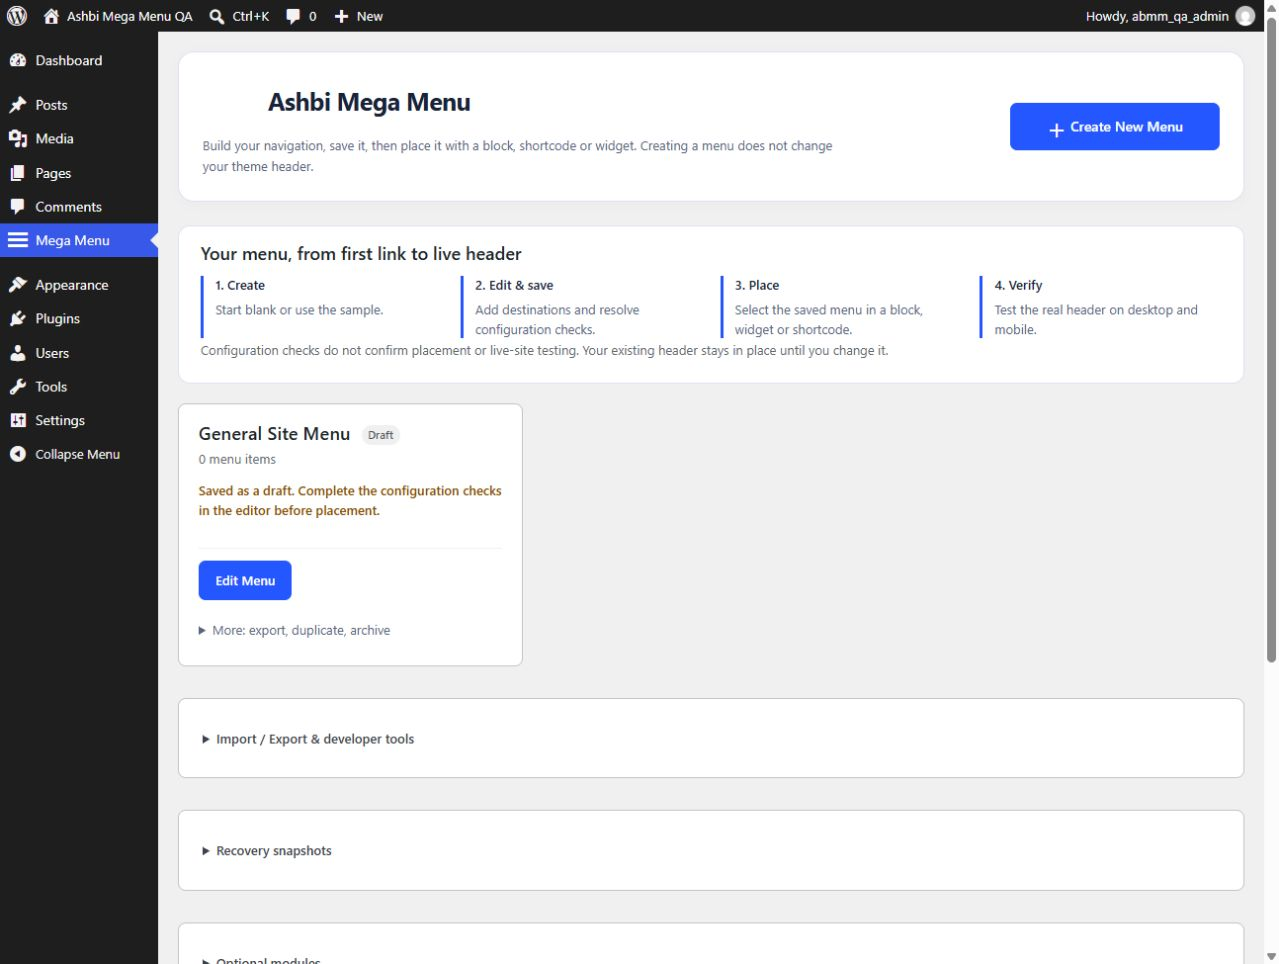
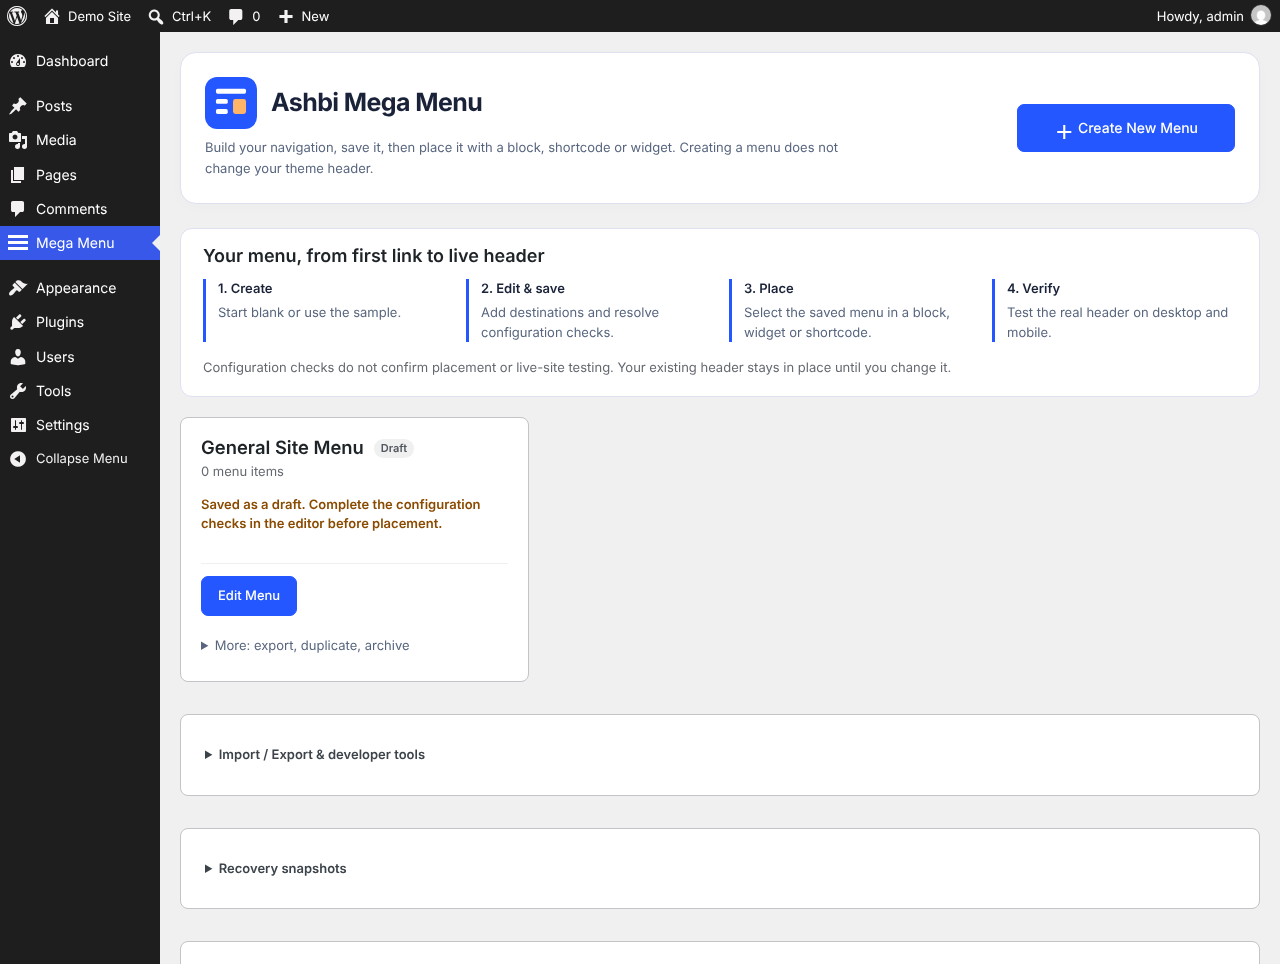
Fix issues found in the WordPress.org readiness review (#14)
- Mobile drawer: open from the top when the menu bar sits low on the
  screen (footer or sidebar widget), instead of off-screen.
- Theme compatibility: themes that style every button (Twenty
  Twenty-One) no longer repaint menu section buttons or the drawer's
  Back and Close buttons. Narrow placements on wide screens now get the
  phone drawer's header layout.
- Block and widget menu lists show the menu ID when names repeat.
- Uninstall also removes the widget's saved settings.
- Retake directory screenshots 1 and 2 from the current plugin.

Adds tests/mobile-drawer-offset.test.js and extends the uninstall
tests; both fail on the previous code.

Claude-Session: https://claude.ai/code/session_01DZ9c9o2cjYuK1oEKvfNMax

diff --git a/build/blocks/mega-menu/index.js b/build/blocks/mega-menu/index.js
@@ -1,1 +1,1 @@
-(()=>{"use strict";const e={n:n=>{const a=n&&n.__esModule?()=>n.default:()=>n;return e.d(a,{a}),a},d:(n,a)=>{for(var s in a)e.o(a,s)&&!e.o(n,s)&&Object.defineProperty(n,s,{enumerable:!0,get:a[s]})},o:(e,n)=>Object.hasOwn(e,n)},n=window.wp.blocks,a=JSON.parse('{"UU":"ashbi-mega-menu/mega-menu"}'),s=window.wp.i18n,i=window.wp.blockEditor,l=window.wp.components,r=window.wp.serverSideRender;var o=e.n(r);const t=window.ReactJSXRuntime,m=(0,t.jsxs)(l.SVG,{width:"24",height:"24",viewBox:"0 0 24 24",xmlns:"http://www.w3.org/2000/svg",children:[(0,t.jsx)(l.Path,{fill:"#2457ff",d:"M6 1h12a5 5 0 0 1 5 5v12a5 5 0 0 1-5 5H6a5 5 0 0 1-5-5V6a5 5 0 0 1 5-5z"}),(0,t.jsx)(l.Path,{fill:"#fff",d:"M6 6h12v2H6zM6 11h5v2H6zM6 16h5v2H6z"}),(0,t.jsx)(l.Path,{fill:"#ffb568",d:"M14 11h4v7h-4z"})]});(0,n.registerBlockType)(a.UU,{icon:m,edit:function({attributes:e,setAttributes:n}){const{menuId:a}=e,r=(0,i.useBlockProps)({className:"wp-block-ashbi-mega-menu-mega-menu"}),c=window.abmmBlockData,h=c?.menus||{},u="ready"===c?.status,d=Object.keys(h).length>0,b=Boolean(a&&u&&!h[a]),g=[{value:"",label:(0,s.__)("— Select a menu —","ashbi-mega-menu")},...Object.entries(h).map(([e,n])=>({value:e,label:n.title||e}))];return(0,t.jsxs)("div",{...r,children:[(0,t.jsx)(i.InspectorControls,{children:(0,t.jsx)(l.PanelBody,{title:(0,s.__)("Menu Settings","ashbi-mega-menu"),children:d&&(0,t.jsx)(l.SelectControl,{label:(0,s.__)("Select Menu","ashbi-mega-menu"),value:a,options:g,onChange:e=>n({menuId:e})})})}),!u&&(0,t.jsxs)(l.Placeholder,{icon:m,label:(0,s.__)("Ashbi Mega Menu","ashbi-mega-menu"),children:[(0,t.jsx)(l.Spinner,{}),(0,t.jsx)("p",{children:(0,s.__)("Loading available menus…","ashbi-mega-menu")})]}),u&&!d&&(0,t.jsx)(l.Placeholder,{icon:m,label:(0,s.__)("Ashbi Mega Menu","ashbi-mega-menu"),instructions:c?.canManage?(0,s.__)("Create a menu first, then return to select it here.","ashbi-mega-menu"):(0,s.__)("No menus are available. Ask a site administrator to create one.","ashbi-mega-menu"),children:c?.canManage&&(0,t.jsx)(l.Button,{variant:"primary",href:c.manageUrl,children:(0,s.__)("Create or manage menus","ashbi-mega-menu")})}),u&&d&&!a&&(0,t.jsx)(l.Placeholder,{icon:m,label:(0,s.__)("Ashbi Mega Menu","ashbi-mega-menu"),instructions:(0,s.__)("Select a mega menu to display.","ashbi-mega-menu"),children:(0,t.jsx)(l.SelectControl,{value:a,options:g,onChange:e=>n({menuId:e})})}),b&&(0,t.jsxs)(l.Notice,{status:"warning",isDismissible:!1,children:[(0,t.jsx)("p",{children:(0,s.__)("The selected menu no longer exists. Choose a replacement.","ashbi-mega-menu")}),(0,t.jsx)(l.SelectControl,{value:"",options:g,onChange:e=>n({menuId:e})})]}),a&&!b&&(0,t.jsx)(o(),{block:"ashbi-mega-menu/mega-menu",attributes:e,LoadingResponsePlaceholder:()=>(0,t.jsxs)("div",{className:"abmm-block-preview-placeholder",children:[(0,t.jsx)(l.Spinner,{}),(0,t.jsx)("p",{children:(0,s.__)("Loading preview…","ashbi-mega-menu")})]}),ErrorResponsePlaceholder:({response:e})=>(0,t.jsx)("div",{className:"abmm-block-preview-placeholder",children:(0,t.jsxs)("p",{children:[(0,s.__)("Preview error: ","ashbi-mega-menu"),e?.errorMsg||(0,s.__)("Unknown error","ashbi-mega-menu")]})})})]})},save:()=>null})})();
+(()=>{"use strict";const e={n:n=>{const a=n&&n.__esModule?()=>n.default:()=>n;return e.d(a,{a}),a},d:(n,a)=>{for(var s in a)e.o(a,s)&&!e.o(n,s)&&Object.defineProperty(n,s,{enumerable:!0,get:a[s]})},o:(e,n)=>Object.hasOwn(e,n)},n=window.wp.blocks,a=JSON.parse('{"UU":"ashbi-mega-menu/mega-menu"}'),s=window.wp.i18n,i=window.wp.blockEditor,t=window.wp.components,l=window.wp.serverSideRender;var r=e.n(l);const o=window.ReactJSXRuntime,m=(0,o.jsxs)(t.SVG,{width:"24",height:"24",viewBox:"0 0 24 24",xmlns:"http://www.w3.org/2000/svg",children:[(0,o.jsx)(t.Path,{fill:"#2457ff",d:"M6 1h12a5 5 0 0 1 5 5v12a5 5 0 0 1-5 5H6a5 5 0 0 1-5-5V6a5 5 0 0 1 5-5z"}),(0,o.jsx)(t.Path,{fill:"#fff",d:"M6 6h12v2H6zM6 11h5v2H6zM6 16h5v2H6z"}),(0,o.jsx)(t.Path,{fill:"#ffb568",d:"M14 11h4v7h-4z"})]});(0,n.registerBlockType)(a.UU,{icon:m,edit:function({attributes:e,setAttributes:n}){const{menuId:a}=e,l=(0,i.useBlockProps)({className:"wp-block-ashbi-mega-menu-mega-menu"}),c=window.abmmBlockData,h=c?.menus||{},u="ready"===c?.status,d=Object.keys(h).length>0,b=Boolean(a&&u&&!h[a]),g=Object.values(h).reduce((e,n)=>{const a=n.title||"";return e[a]=(e[a]||0)+1,e},{}),p=[{value:"",label:(0,s.__)("— Select a menu —","ashbi-mega-menu")},...Object.entries(h).map(([e,n])=>({value:e,label:n.title?g[n.title]>1?`${n.title} (${e})`:n.title:e}))];return(0,o.jsxs)("div",{...l,children:[(0,o.jsx)(i.InspectorControls,{children:(0,o.jsx)(t.PanelBody,{title:(0,s.__)("Menu Settings","ashbi-mega-menu"),children:d&&(0,o.jsx)(t.SelectControl,{label:(0,s.__)("Select Menu","ashbi-mega-menu"),value:a,options:p,onChange:e=>n({menuId:e})})})}),!u&&(0,o.jsxs)(t.Placeholder,{icon:m,label:(0,s.__)("Ashbi Mega Menu","ashbi-mega-menu"),children:[(0,o.jsx)(t.Spinner,{}),(0,o.jsx)("p",{children:(0,s.__)("Loading available menus…","ashbi-mega-menu")})]}),u&&!d&&(0,o.jsx)(t.Placeholder,{icon:m,label:(0,s.__)("Ashbi Mega Menu","ashbi-mega-menu"),instructions:c?.canManage?(0,s.__)("Create a menu first, then return to select it here.","ashbi-mega-menu"):(0,s.__)("No menus are available. Ask a site administrator to create one.","ashbi-mega-menu"),children:c?.canManage&&(0,o.jsx)(t.Button,{variant:"primary",href:c.manageUrl,children:(0,s.__)("Create or manage menus","ashbi-mega-menu")})}),u&&d&&!a&&(0,o.jsx)(t.Placeholder,{icon:m,label:(0,s.__)("Ashbi Mega Menu","ashbi-mega-menu"),instructions:(0,s.__)("Select a mega menu to display.","ashbi-mega-menu"),children:(0,o.jsx)(t.SelectControl,{value:a,options:p,onChange:e=>n({menuId:e})})}),b&&(0,o.jsxs)(t.Notice,{status:"warning",isDismissible:!1,children:[(0,o.jsx)("p",{children:(0,s.__)("The selected menu no longer exists. Choose a replacement.","ashbi-mega-menu")}),(0,o.jsx)(t.SelectControl,{value:"",options:p,onChange:e=>n({menuId:e})})]}),a&&!b&&(0,o.jsx)(r(),{block:"ashbi-mega-menu/mega-menu",attributes:e,LoadingResponsePlaceholder:()=>(0,o.jsxs)("div",{className:"abmm-block-preview-placeholder",children:[(0,o.jsx)(t.Spinner,{}),(0,o.jsx)("p",{children:(0,s.__)("Loading preview…","ashbi-mega-menu")})]}),ErrorResponsePlaceholder:({response:e})=>(0,o.jsx)("div",{className:"abmm-block-preview-placeholder",children:(0,o.jsxs)("p",{children:[(0,s.__)("Preview error: ","ashbi-mega-menu"),e?.errorMsg||(0,s.__)("Unknown error","ashbi-mega-menu")]})})})]})},save:()=>null})})();

diff --git a/assets/css/frontend.css b/assets/css/frontend.css
@@ -827,7 +827,7 @@ a.abmm-product-nav__identity:focus {
 	margin: 0;
 	padding: 0.65rem 0.75rem;
 	text-align: left;
-	background: transparent;
+	background: transparent !important;
 	border: 0;
 	border-bottom: 1px solid var(--abmm-border);
 	border-radius: 0;
@@ -884,8 +884,8 @@ a.abmm-product-nav__identity:focus {
 }
 .abmm-header .abmm-mega__cat:hover,
 .abmm-header .abmm-mega__cat:focus {
-	background: rgba(26, 115, 232, 0.06);
-	background: color-mix(in srgb, var(--abmm-accent) 6%, var(--abmm-sidebar-bg));
+	background: rgba(26, 115, 232, 0.06) !important;
+	background: color-mix(in srgb, var(--abmm-accent) 6%, var(--abmm-sidebar-bg)) !important;
 	box-shadow: none;
 	color: var(--abmm-text) !important;
 }
@@ -893,8 +893,8 @@ a.abmm-product-nav__identity:focus {
 .abmm-header .abmm-mega__cat.is-active,
 .abmm-header .abmm-mega__cat.is-active:hover,
 .abmm-header .abmm-mega__cat.is-active:focus {
-	background: rgba(26, 115, 232, 0.1);
-	background: color-mix(in srgb, var(--abmm-accent) 10%, var(--abmm-sidebar-bg));
+	background: rgba(26, 115, 232, 0.1) !important;
+	background: color-mix(in srgb, var(--abmm-accent) 10%, var(--abmm-sidebar-bg)) !important;
 	box-shadow: inset 3px 0 0 var(--abmm-accent);
 	color: var(--abmm-text) !important;
 	z-index: 1;
@@ -1915,7 +1915,7 @@ html.abmm-drawer-open {
 		border: none;
 		border-bottom: 1px solid var(--abmm-border);
 		border-radius: 0;
-		background: transparent;
+		background: transparent !important;
 		min-height: 56px;
 		grid-column: auto;
 		box-shadow: none;
@@ -1928,7 +1928,7 @@ html.abmm-drawer-open {
 
 	.abmm-mega__cat:hover,
 	.abmm-mega__cat.is-active {
-		background: rgba(0, 0, 0, 0.02);
+		background: rgba(0, 0, 0, 0.02) !important;
 		border-color: var(--abmm-border);
 		box-shadow: none;
 		border-radius: 0;
@@ -2269,7 +2269,7 @@ html.abmm-drawer-open {
 		border: none;
 		border-bottom: 1px solid var(--abmm-border);
 		border-radius: 0;
-		background: transparent;
+		background: transparent !important;
 		min-height: 56px;
 		box-shadow: none;
 	}
@@ -2419,4 +2419,104 @@ html.abmm-drawer-open {
 .abmm-header.abmm-mobile-enhanced.abmm-force-mobile :is(.abmm-nav__link, .abmm-mega__cat, .abmm-mega__col-link, .abmm-mega__grid-link):focus:not(:focus-visible) { outline: none; }
 .abmm-header.abmm-mobile-enhanced.abmm-force-mobile :is(.abmm-mega__col-link, .abmm-menu-search__results a)[aria-current="page"] { background: var(--abmm-active-bg, #edf2ff); color: var(--abmm-accent, #4264ff); font-weight: 600; }
 .abmm-header.abmm-mobile-enhanced.abmm-force-mobile .abmm-menu-search__results a:hover { background: var(--abmm-active-bg, #edf2ff); }
+}
+
+/* Theme button styles (for example Twenty Twenty-One's) must not repaint the
+   drawer's own Back and Close buttons. */
+.abmm-header .abmm-mobile-back,
+.abmm-header .abmm-nav__drawer-close {
+	border: none !important;
+	background: transparent !important;
+	box-shadow: none !important;
+	color: var(--abmm-text) !important;
+}
+
+.abmm-header .abmm-mobile-back:hover,
+.abmm-header .abmm-mobile-back:focus-visible,
+.abmm-header .abmm-nav__drawer-close:hover,
+.abmm-header .abmm-nav__drawer-close:focus-visible {
+	background: rgba(0, 0, 0, 0.05) !important;
+}
+
+/* A narrow placement on a wide screen (a sidebar or footer widget) shows the
+   phone drawer, so it needs the phone drawer's header and button layout too. */
+@media (min-width: 901px) {
+	.abmm-header.abmm-force-mobile .abmm-nav__drawer-head {
+		display: flex;
+		align-items: center;
+		justify-content: space-between;
+		gap: 0.75rem;
+		padding: 0.65rem 1rem;
+		border-bottom: 1px solid var(--abmm-border);
+		position: sticky;
+		top: 0;
+		background: var(--abmm-header-bg);
+		z-index: 3;
+	}
+
+	.abmm-header.abmm-force-mobile.abmm-is-drilling .abmm-nav__drawer-head {
+		display: none;
+	}
+
+	.abmm-header.abmm-force-mobile .abmm-nav__drawer-title {
+		font-size: 16px;
+		font-weight: 700;
+		color: var(--abmm-text);
+	}
+
+	.abmm-header.abmm-force-mobile .abmm-nav__drawer-close {
+		display: inline-flex;
+		align-items: center;
+		justify-content: center;
+		flex: 0 0 44px;
+		width: 44px;
+		min-width: 44px;
+		height: 44px;
+		min-height: 44px;
+		padding: 0;
+		margin: 0;
+		border-radius: 8px;
+		font-size: 24px;
+		line-height: 1;
+		cursor: pointer;
+		box-sizing: border-box;
+	}
+
+	.abmm-header.abmm-force-mobile .abmm-mobile-bar {
+		gap: 0.65rem;
+		padding: 0.65rem 1rem;
+		margin: 0;
+		border-bottom: 1px solid var(--abmm-border);
+		position: sticky;
+		top: 0;
+		background: var(--abmm-header-bg);
+		z-index: 2;
+	}
+
+	.abmm-header.abmm-force-mobile .abmm-mobile-back {
+		display: inline-flex;
+		align-items: center;
+		justify-content: center;
+		gap: 0.2rem;
+		margin: 0;
+		border-radius: 8px;
+		font-family: inherit;
+		font-size: 14px;
+		font-weight: 600;
+		cursor: pointer;
+	}
+
+	.abmm-header.abmm-force-mobile .abmm-mobile-title {
+		flex: 1;
+		font-weight: 700;
+		color: var(--abmm-text);
+		min-width: 0;
+		overflow-wrap: anywhere;
+		line-height: 1.35;
+		padding-block: 0.55rem;
+	}
+
+	.abmm-header.abmm-force-mobile .abmm-mobile-close {
+		flex-shrink: 0;
+	}
 }

diff --git a/tests/mobile-drawer-offset.test.js b/tests/mobile-drawer-offset.test.js
@@ -1,0 +1,45 @@
+'use strict';
+
+const assert = require('node:assert/strict');
+const fs = require('node:fs');
+const path = require('node:path');
+const { JSDOM } = require('jsdom');
+
+// The mobile drawer opens below the menu bar. When the bar sits low on the
+// screen (a footer or sidebar widget), the drawer must open from the top.
+function openDrawerWithBarAt(barBottom) {
+	const dom = new JSDOM(
+		`<!doctype html><html><body>
+			<header class="abmm-header abmm-mobile-enhanced" data-abmm-instance="abmm-offset-1">
+				<nav class="abmm-nav">
+					<div class="abmm-nav__bar">
+						<button class="abmm-nav__toggle" aria-expanded="false" aria-controls="abmm-offset-1-drawer">Open</button>
+					</div>
+					<div class="abmm-nav__drawer" id="abmm-offset-1-drawer">
+						<button data-abmm-drawer-close>Close</button>
+						<ul class="abmm-nav__list"><li class="abmm-nav__item"><a href="/a">A</a></li></ul>
+					</div>
+					<div data-abmm-backdrop hidden></div>
+				</nav>
+			</header>
+		</body></html>`,
+		{ runScripts: 'outside-only', pretendToBeVisual: true, url: 'https://example.test/' }
+	);
+	const { window } = dom;
+	Object.defineProperty(window, 'innerHeight', { value: 800, configurable: true });
+	window.matchMedia = (query) => ({ matches: query.includes('max-width'), media: query, addEventListener() {}, removeEventListener() {} });
+	window.requestAnimationFrame = (callback) => callback();
+	window.ResizeObserver = class { observe() {} };
+	window.document.querySelector('.abmm-nav__bar').getBoundingClientRect = () => ({ bottom: barBottom });
+	window.eval(fs.readFileSync(path.join(__dirname, '..', 'assets', 'js', 'frontend.js'), 'utf8'));
+	window.document.dispatchEvent(new window.Event('DOMContentLoaded'));
+	const header = window.document.querySelector('.abmm-header');
+	header.querySelector('.abmm-nav__toggle').click();
+	const offset = header.style.getPropertyValue('--abmm-mobile-offset');
+	window.close();
+	return offset;
+}
+
+assert.equal(openDrawerWithBarAt(64), '64px', 'a bar near the top keeps the drawer below it');
+assert.equal(openDrawerWithBarAt(760), '0px', 'a bar near the bottom opens the drawer from the top');
+console.log('Mobile drawer stays on screen wherever the menu bar is placed.');

diff --git a/src/blocks/mega-menu/edit.js b/src/blocks/mega-menu/edit.js
@@ -31,11 +31,18 @@ export default function Edit({ attributes, setAttributes }) {
 	const hasMenus = Object.keys(menus).length > 0;
 	const selectedMenuMissing = Boolean(menuId && isReady && !menus[menuId]);
 
+	// Menus can share a name (for example several copies of the sample), so
+	// add the menu ID to repeated names to tell them apart.
+	const titleCounts = Object.values(menus).reduce((counts, menu) => {
+		const title = menu.title || '';
+		counts[title] = (counts[title] || 0) + 1;
+		return counts;
+	}, {});
 	const menuOptions = [
 		{ value: '', label: __('— Select a menu —', 'ashbi-mega-menu') },
 		...Object.entries(menus).map(([id, menu]) => ({
 			value: id,
-			label: menu.title || id,
+			label: !menu.title ? id : titleCounts[menu.title] > 1 ? `${menu.title} (${id})` : menu.title,
 		})),
 	];
 

diff --git a/assets/js/frontend.js b/assets/js/frontend.js
@@ -623,6 +623,12 @@
 
 		var bar = header.querySelector('.abmm-nav__bar');
 		var offset = bar ? Math.max(adminOffset, Math.round(bar.getBoundingClientRect().bottom)) : adminOffset;
+		// A bar low on the screen, such as a footer or sidebar widget, would
+		// leave no room for the drawer below it. Open from the top instead.
+		var viewportHeight = window.innerHeight || document.documentElement.clientHeight || 0;
+		if (viewportHeight && offset > viewportHeight - Math.min(320, viewportHeight / 2)) {
+			offset = adminOffset;
+		}
 		header.style.setProperty('--abmm-mobile-offset', offset + 'px');
 	}
 

diff --git a/includes/class-abmm-widget.php b/includes/class-abmm-widget.php
@@ -91,9 +91,17 @@ class ABMM_Widget extends WP_Widget {
 				name="<?php echo esc_attr( $this->get_field_name( 'menu_id' ) ); ?>"
 			>
 				<option value=""><?php esc_html_e( '— Select a menu —', 'ashbi-mega-menu' ); ?></option>
+				<?php $title_counts = array_count_values( array_map( 'strval', wp_list_pluck( $menus, 'title' ) ) ); ?>
 				<?php foreach ( $menus as $id => $menu ) : ?>
+					<?php
+					$label = $menu['title'] ?: $id;
+					if ( $menu['title'] && ( $title_counts[ $menu['title'] ] ?? 0 ) > 1 ) {
+						/* translators: 1: menu name, 2: menu ID. Used when several menus share a name. */
+						$label = sprintf( __( '%1$s (%2$s)', 'ashbi-mega-menu' ), $menu['title'], $id );
+					}
+					?>
 					<option value="<?php echo esc_attr( $id ); ?>" <?php selected( $menu_id, $id ); ?>>
-						<?php echo esc_html( $menu['title'] ?: $id ); ?>
+						<?php echo esc_html( $label ); ?>
 					</option>
 				<?php endforeach; ?>
 			</select>

diff --git a/tests/wordpress-multisite-uninstall.php b/tests/wordpress-multisite-uninstall.php
@@ -22,7 +22,7 @@ for ( $i = 1; $i <= 2; $i++ ) {
 }
 $original_site = get_current_blog_id();
 abmm_multisite_assert( ! wp_installing() && ! wp_using_ext_object_cache(), 'Fixture must use normal database-backed transient storage.' );
-$keys = array( 'abmm_menus', 'abmm_archived_menus', 'abmm_product_profiles', 'abmm_product_branding', 'abmm_plugin_version', 'abmm_import_backups', 'abmm_contextual_navigation_enabled' );
+$keys = array( 'abmm_menus', 'abmm_archived_menus', 'abmm_product_profiles', 'abmm_product_branding', 'abmm_plugin_version', 'abmm_import_backups', 'abmm_contextual_navigation_enabled', 'widget_abmm_widget' );
 $extra_network = '1' === getenv( 'ABMM_EXTRA_NETWORK' );
 $foreign_options = array();
 if ( $extra_network ) {

diff --git a/tests/uninstall-cleanup.php b/tests/uninstall-cleanup.php
@@ -14,7 +14,7 @@ foreach ( range( 1, $site_count ) as $site_id ) {
   'abmm_menus' => array( 'private' ), 'abmm_archived_menus' => array(),
   'abmm_product_profiles' => array(), 'abmm_product_branding' => array(),
   'abmm_plugin_version' => '1.0.4', 'abmm_import_backups' => array(),
-  'abmm_contextual_navigation_enabled' => '1',
+  'abmm_contextual_navigation_enabled' => '1', 'widget_abmm_widget' => array( 2 => array( 'menu_id' => 'private' ) ),
   '_transient_abmm_product_draft_random' => 'private draft',
   '_transient_timeout_abmm_product_draft_random' => 123,
   'unrelated' => 'keep', '_transient_other_plugin' => 'keep',

diff --git a/uninstall.php b/uninstall.php
@@ -32,6 +32,7 @@ $abmm_option_keys = array(
 	'abmm_plugin_version',
 	'abmm_import_backups',
 	'abmm_contextual_navigation_enabled',
+	'widget_abmm_widget',
 );
 
 // Site options and recovery drafts belong to each site's own options table.

diff --git a/build/blocks/mega-menu/index.asset.php b/build/blocks/mega-menu/index.asset.php
@@ -7,5 +7,5 @@
 		'wp-i18n',
 		'wp-server-side-render'
 	),
-	'version' => '32cb619ad1e23d193adb'
+	'version' => 'ea2b79259e3e19b6cd77'
 );
